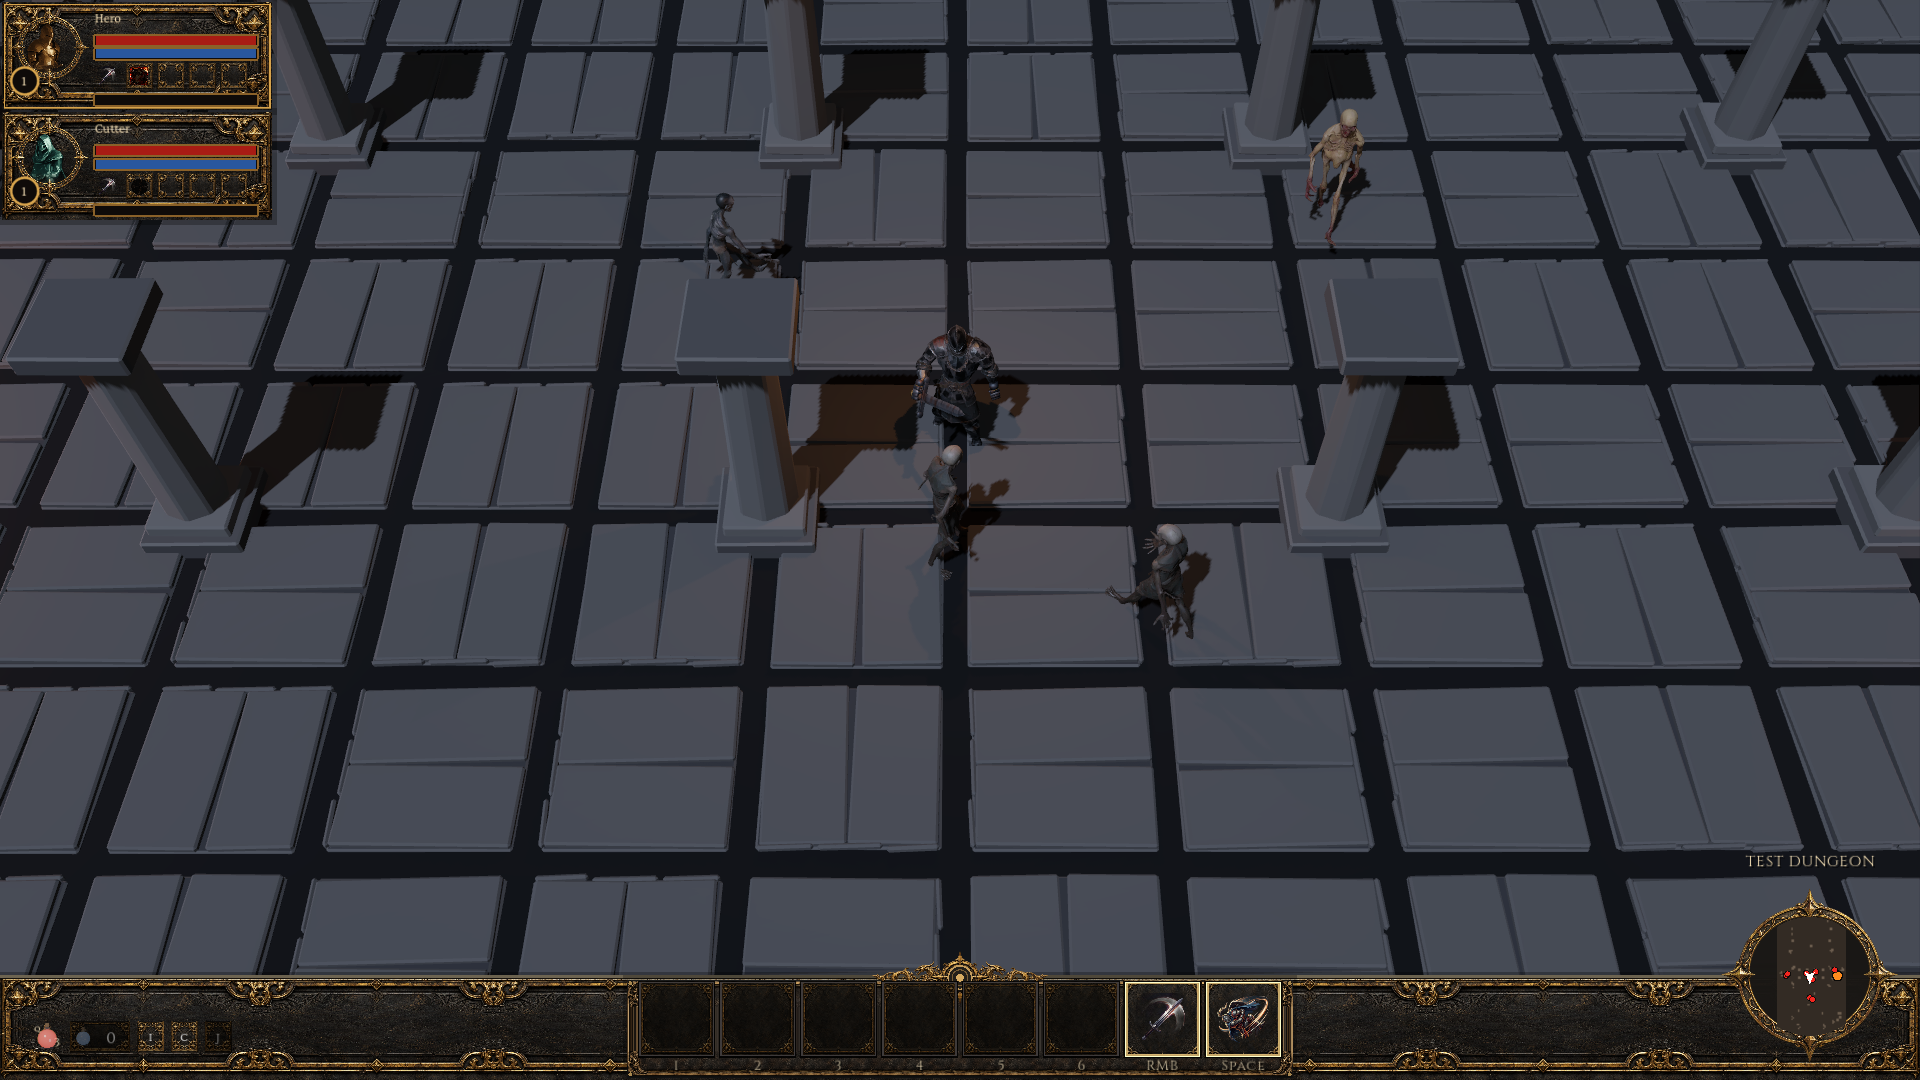
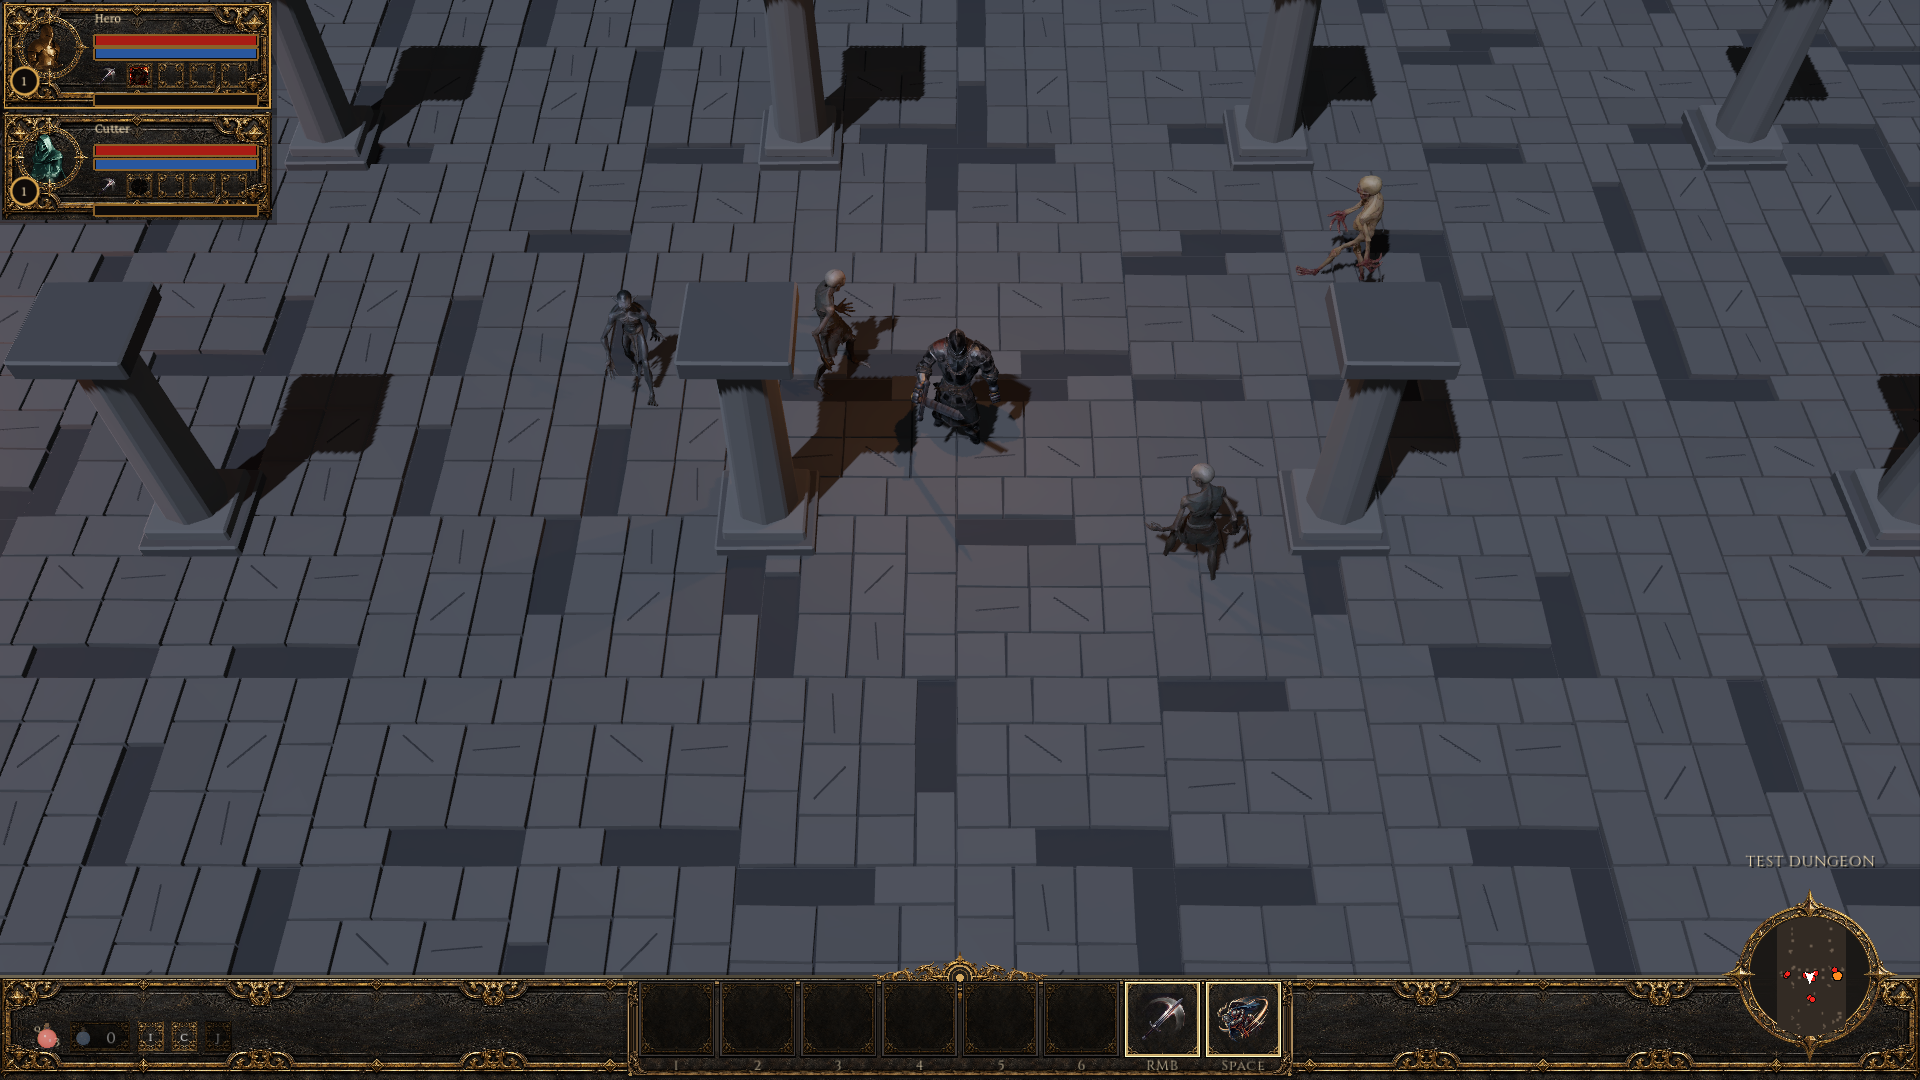
Dungeon floor: running-bond worn flagstones, thin joints, no black grid
- Slabs are 0.5 to 1.0 m wide in running-bond rows (each row has its own
  offset), with 2.5 cm joints, so the slabs nearly touch and no long joint
  crosses the room. Per-slab value varies by about plus or minus 8 percent
  (five tones). About one slab in five is cracked and one in ten is missing,
  as in the environment kit's worn road tile. Joints are a little darker
  than the stone, not black.
- The floor tile is placed at its real height (0.153 m). The old 0.125 m
  scaled every tile to about 82 percent and opened wide dark gaps.

Changed region(s): [[0.0, 0.0, 1.0, 0.9167], [0.9688, 0.4889, 1.0, 0.55]]

diff --git a/tools/blender/make_dungeon_props.py b/tools/blender/make_dungeon_props.py
@@ -169,36 +169,43 @@ def build_torch_sconce(bm, rng):
     jitter(bm, rng, 0.005)
 
 
+FLAG_TONES = [0.92, 0.96, 1.0, 1.04, 1.08]   # per-slab value, about plus or minus 8 percent of the flag base
+for _i, _f in enumerate(FLAG_TONES):
+    PALETTE["flag_t%d" % _i] = ((0.082 * _f, 0.079 * _f, 0.075 * _f), 0.0, 0.94)
+FLOOR_KEYS = ["flag_t0", "flag_t1", "flag_t2", "flag_t3", "flag_t4", "grout"]
+GROUT = 5
+
+
 def build_floor_flag(bm, rng):
-    """A 2 m floor tile of old, irregular flagstones on a thin grey grout bed. Slabs differ in size and turn, about one in ten is
-    missing (the bed shows), and a soft, irregular dirt patch (a low fan, not a square) appears on about two tiles in five."""
-    add_box(bm, (0, 0, 0.03), (2.0, 2.0, 0.06), mat=3)      # the grout bed, dark grey, under every slab
-    split_x = rng.uniform(0.8, 1.2)
-    for col in (0, 1):
-        x0 = -1.0 if col == 0 else split_x
-        x1 = split_x if col == 0 else 1.0
-        y = -1.0
-        while y < 1.0 - 0.01:
-            h = min(rng.uniform(0.5, 1.1), 1.0 - y)
-            if 1.0 - (y + h) < 0.4:
-                h = 1.0 - y
+    """A 2 m worn flagstone tile, like the worn road tile: running-bond rows (each row starts at its own offset, so no joint runs
+    straight across the room), slabs 0.5 to 1.0 m wide with 2.5 cm joints, a per-slab value about plus or minus 8 percent, some
+    cracked, and about one in ten missing so the grout bed shows through. The joints are only a little darker than the stone."""
+    add_box(bm, (0, 0, 0.03), (2.0, 2.0, 0.06), mat=GROUT)      # the grout bed, a little darker than the stone
+    y = -1.0
+    while y < 1.0 - 0.01:
+        h = min(rng.uniform(0.42, 0.62), 1.0 - y)
+        if 1.0 - (y + h) < 0.3:
+            h = 1.0 - y
+        x = -1.0
+        first = rng.choice([0.25, 0.5, 0.75])   # the running-bond offset for this row
+        widths = [first]
+        while sum(widths) < 2.0 - 0.01:
+            widths.append(rng.choice([0.5, 0.75, 1.0]))
+        widths[-1] = 2.0 - sum(widths[:-1])
+        for w in widths:
+            if w <= 0.01:
+                continue
             if rng.random() >= 0.1:
-                cx = (x0 + x1) / 2 + rng.uniform(-0.02, 0.02)
-                add_box(bm, (cx, y + h / 2, 0.09), (x1 - x0 - 0.05, h - 0.05, 0.1),
-                        rot=(0, 0, rng.uniform(-0.05, 0.05)), mat=0 if rng.random() < 0.5 else 1)
-            y += h
-    if rng.random() < 0.4:   # soft irregular dirt: a fan of triangles with uneven edges, flat on the stone
-        cx, cy = rng.uniform(-0.6, 0.6), rng.uniform(-0.6, 0.6)
-        radius = rng.uniform(0.3, 0.5)
-        sides = 12
-        centre = bm.verts.new((cx, cy, 0.13))
-        ring = [bm.verts.new((cx + radius * rng.uniform(0.45, 1.0) * math.cos(2 * math.pi * i / sides),
-                              cy + radius * rng.uniform(0.45, 1.0) * math.sin(2 * math.pi * i / sides), 0.13))
-                for i in range(sides)]
-        for i in range(sides):
-            face = bm.faces.new((centre, ring[i], ring[(i + 1) % sides]))
-            face.material_index = 2
-    jitter(bm, rng, 0.003)
+                cx = x + w / 2
+                cy = y + h / 2
+                add_box(bm, (cx, cy, 0.09), (w - 0.025, h - 0.025, 0.1), rot=(0, 0, rng.uniform(-0.02, 0.02)),
+                        mat=rng.randrange(5))
+                if rng.random() < 0.2:   # a crack across the stone, in the joint colour
+                    add_box(bm, (cx + rng.uniform(-0.1, 0.1), cy, 0.146), (w * 0.6, 0.02, 0.01),
+                            rot=(0, 0, rng.uniform(-0.8, 0.8)), mat=GROUT)
+            x += w
+        y += h
+    jitter(bm, rng, 0.002)
 
 
 def build_wall_large(bm, rng, broken):
@@ -221,7 +228,7 @@ def build_wall_large(bm, rng, broken):
 
 
 if __name__ == "__main__":
-    finish_and_export("floor_flag", build_floor_flag, ["flag_a", "flag_b", "dirt", "grout"], 17)
+    finish_and_export("floor_flag", build_floor_flag, FLOOR_KEYS, 17)
     finish_and_export("wall_large_a", lambda bm, rng: build_wall_large(bm, rng, False), ["stone_light", "stone_dark"], 19)
     finish_and_export("wall_large_b", lambda bm, rng: build_wall_large(bm, rng, True), ["stone_light", "stone_dark"], 23)
     finish_and_export("pillar", build_pillar, ["stone_light", "stone_dark"], 3)
